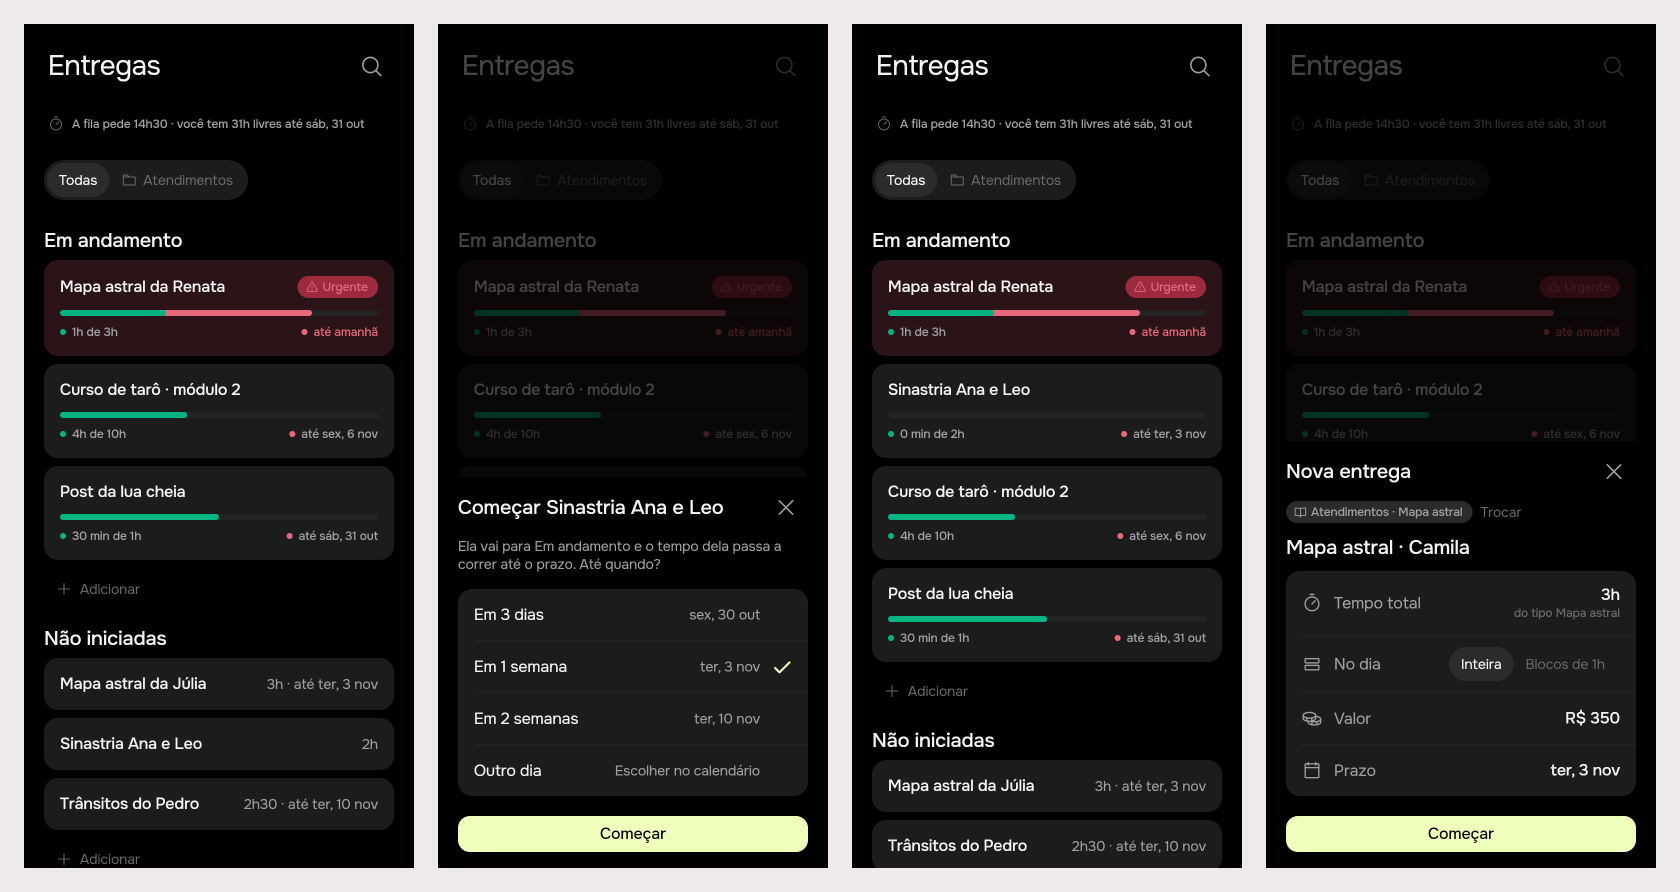
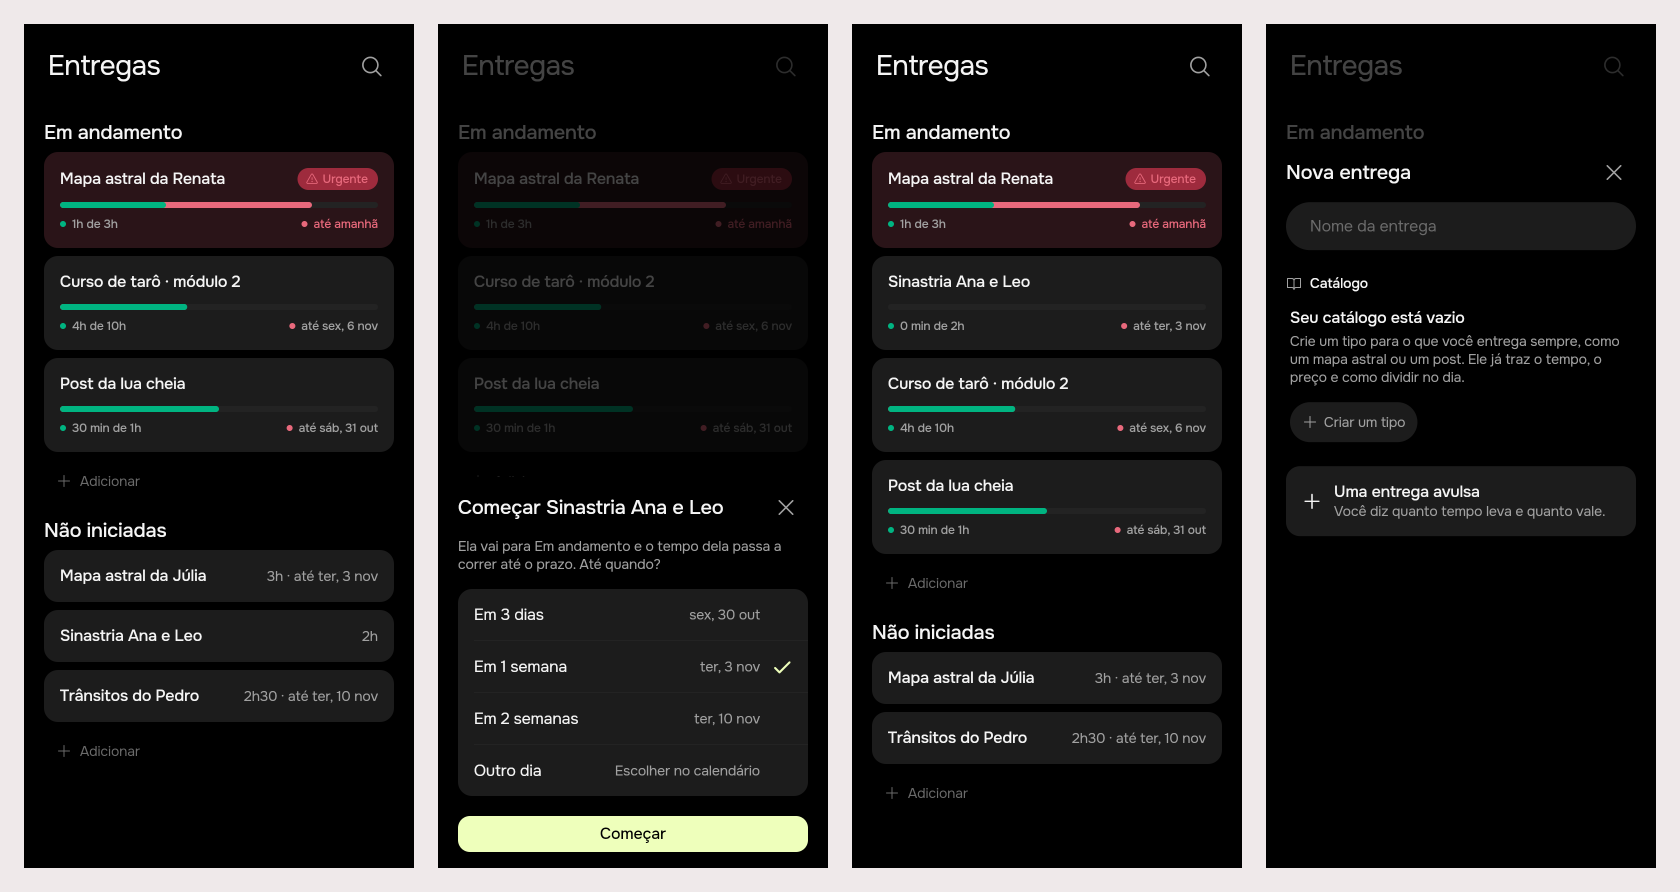
create(#48): fix · Improve deliveries experience

diff --git a/app/packages/artifacts/lib/src/view/artifacts_page.dart b/app/packages/artifacts/lib/src/view/artifacts_page.dart
@@ -22,10 +22,8 @@ import 'package:timeline/timeline.dart';
 /// {@template artifacts_page}
 /// The Entregas tab: the deliveries under way, then the ones not begun.
 ///
-/// The three forces on one screen. The goals say what the month asks for;
-/// the line under them says what the agenda can give, the time the queue
-/// owes this month against the free time left in it; the deliveries are
-/// what both are spent on. Those under way (Em andamento) are fixed, the
+/// The goals say what the month asks for (hidden for now); the deliveries
+/// are what it is spent on. Those under way (Em andamento) are fixed, the
 /// one whose time has run furthest past its work on top; those not begun
 /// (Não iniciadas) are the queue, in order of priority, and held, a row is
 /// dragged to another place in it. One line of the kinds she uses most
@@ -97,7 +95,6 @@ class _ArtifactsPageState extends State<ArtifactsPage> {
     // The first few, what is under way first, as the page draws them.
     final started = groups.started.take(widget.shown).toList();
     final waiting = groups.waiting.take(widget.shown - started.length).toList();
-    final schedule = data.schedule;
     const side = EdgeInsets.symmetric(horizontal: AppSpacing.s5);
 
     return SafeArea(
@@ -171,35 +168,8 @@ class _ArtifactsPageState extends State<ArtifactsPage> {
                             },
                           ),
                         ),
+                      const SizedBox(height: AppSpacing.s3),
                     ],
-                    const SizedBox(height: AppSpacing.s3),
-                    Padding(
-                      padding: const EdgeInsets.symmetric(
-                        horizontal: AppSpacing.s1,
-                      ),
-                      child: Row(
-                        children: [
-                          const AppIcon(
-                            iconData: AppIcons.timer,
-                            size: AppSpacing.s4,
-                            color: AppColors.ink3,
-                          ),
-                          const SizedBox(width: AppSpacing.s2),
-                          Expanded(
-                            child: Text(
-                              l10n.goalSchedule(
-                                formatMinutes(l10n, schedule.needMinutes),
-                                formatMinutes(l10n, schedule.freeMinutes),
-                                dayName(l10n, schedule.until, now),
-                              ),
-                              style: AppTypography.caption,
-                            ),
-                          ),
-                        ],
-                      ),
-                    ),
-                    const SizedBox(height: AppSpacing.s4),
-                    const SizedBox(height: AppSpacing.s3),
                     if (data.catalog.isNotEmpty) ...[
                       ShelfFilter(
                         categories: data.catalog,

diff --git a/app/packages/artifacts/test/artifacts_page_test.dart b/app/packages/artifacts/test/artifacts_page_test.dart
@@ -162,7 +162,7 @@ void main() {
     await tester.pumpAndSettle();
   }
 
-  testAt('draws the goals, the agenda against the queue, and five of it', (
+  testAt('draws the goals and five of the queue', (
     tester,
   ) async {
     await pump(tester, full, home: const ArtifactsPage(showGoals: true));
@@ -171,20 +171,8 @@ void main() {
       find.text(l10n.goalInMonth(l10n.goalRevenue, 'outubro')),
       findsOneWidget,
     );
-    expect(
-      find.text(
-        l10n.goalSchedule(
-          '11h15',
-          '26h',
-          AppWheelPicker.dayLabel(
-            l10n,
-            DateTime(2026, 10, 31),
-            now: now,
-          ).toLowerCase(),
-        ),
-      ),
-      findsOneWidget,
-    );
+    // The agenda against the queue is not drawn any more.
+    expect(find.textContaining('A fila pede'), findsNothing);
     expect(find.byType(ArtifactRow), findsNWidgets(5));
     expect(find.text(l10n.artifactsSeeAll(6)), findsOneWidget);
     expect(find.text('Mapa · Renata'), findsNothing);

diff --git a/app/packages/l10n/lib/src/gen/app_localizations.dart b/app/packages/l10n/lib/src/gen/app_localizations.dart
@@ -2159,12 +2159,6 @@ abstract class AppLocalizations {
   /// **'a fila cobre o resto'**
   String get goalCovered;
 
-  /// No description provided for @goalSchedule.
-  ///
-  /// In pt, this message translates to:
-  /// **'A fila pede {need} · você tem {free} livres até {date}'**
-  String goalSchedule(String need, String free, String date);
-
   /// No description provided for @artifactsAll.
   ///
   /// In pt, this message translates to:

diff --git a/app/packages/l10n/lib/src/gen/app_localizations_pt.dart b/app/packages/l10n/lib/src/gen/app_localizations_pt.dart
@@ -1367,11 +1367,6 @@ class AppLocalizationsPt extends AppLocalizations {
   String get goalCovered => 'a fila cobre o resto';
 
   @override
-  String goalSchedule(String need, String free, String date) {
-    return 'A fila pede $need · você tem $free livres até $date';
-  }
-
-  @override
   String get artifactsAll => 'Todas';
 
   @override

diff --git a/product/delivery/2026-10-27-deliveries/README.md b/product/delivery/2026-10-27-deliveries/README.md
@@ -2,7 +2,9 @@
 
 Issue [#48](https://github.com/pietroid/lunna/issues/48), **mockup track**,
 designed and built unattended by the queue. The design was approved on
-the issue ("Approve"); the build is sections 3 to 5.
+the issue ("Approve"); the build is sections 3 to 5. The review of the
+build asked to remove the schedule line (open question 1) and merge: see
+*After the review* in section 3.
 
 ## 1. The prompt
 
@@ -23,6 +25,10 @@ From [issue #48](https://github.com/pietroid/lunna/issues/48), verbatim:
 Answer on the issue, after the design:
 
 > Approve
+
+Answer on the issue, after the build:
+
+> Remove the line, and then merge it
 
 ## 2. The design
 
@@ -114,7 +120,8 @@ Drawn from known patterns, not browsed (no Mobbin session here):
 The approval answered neither, so the build kept both as proposed:
 
 1. Should the schedule line (*A fila pede … · você tem … livres até …*) go too?
-   Kept for now.
+   Kept for now. **Answered after the build: remove it** (section 3,
+   *After the review*).
 2. Should an overdue delivery that was **never begun** be pulled into Em
    andamento as urgent? Proposed: no, it stays in the queue with its day
    in red.
@@ -131,6 +138,28 @@ first, red and tagged; (2) a delivery with no day dropped into Em
 andamento asks for one; (3) begun, it lands by the rule, its bar empty;
 (4) Em andamento's **+ Adicionar**: the creation sheet with a day already
 set a week out, no "Entra na fila", and **Começar**.
+
+### After the review
+
+"Remove the line" was read as open question 1, the one line the build
+had kept on purpose: the schedule line under the title (*A fila pede
+14h30 · você tem 31h livres até sáb, 31 out*). It is gone, and the
+prints above are re-shot from the final code:
+
+- `ArtifactsPage` no longer draws it; the space it held closed, so Em
+  andamento's heading sits right under the title (with the goals on, they
+  keep their gap above the list).
+- `goalSchedule` left `app_pt.arb` (and the generated l10n).
+- `schedule` stays in the model and in `GET /artifacts`: nothing else
+  reads it in the app, but the server's figure is cheap and the goals
+  (hidden by the flag) may want it back. The server is untouched.
+- `artifacts_page_test`: the goals test now checks that *A fila pede* is
+  not drawn. `AGENTS.md` and `product/spec/artifacts.md` say so.
+- `.tool/check` on the change: every step green (app analyze, every
+  package's tests under Focus and Lunna).
+
+The merge is the person's (or the queue's) to do: this run leaves the
+change in the branch's files for the PR.
 
 ### The contract
 

diff --git a/AGENTS.md b/AGENTS.md
@@ -528,8 +528,8 @@ it was begun to the end of its day in red (`paceTime`) under its minutes
 done in green (`paceDone`), keyed with the time done and the day due.
 The **goals** (money delivered,
 or a count of one kind, per week or month) are hidden by a flag
-(`ArtifactsPage(showGoals:)`, off) and a line sets the time the month's
-deliveries owe against the agenda's free hours. A delivery's tasks are ordinary tasks on the day
+(`ArtifactsPage(showGoals:)`, off), and so is the line that set the
+month's deliveries against the agenda's free hours. A delivery's tasks are ordinary tasks on the day
 (`task.artifact_id`). Its page has three tabs: Notas, **Pendentes**
 (Tempo's Lista kept to them, `TimelineList(only:)`) and **Feitas** (what
 was done, newest first under Hoje / Ontem / the date), under the same

diff --git a/product/spec/artifacts.md b/product/spec/artifacts.md
@@ -130,7 +130,10 @@ of deliveries both are spent on.
   or not begun, no red.
 - **The goals are hidden** (`ArtifactsPage(showGoals: false)`, the
   default): no goal cards and no "Nova meta". The model, the routes and the
-  agent's goal verbs are untouched, and the schedule line stays.
+  agent's goal verbs are untouched.
+- **No schedule line**: the line that set what the queue owes this month
+  against the agenda's free hours (*A fila pede … · você tem … livres
+  até …*) is not drawn. `schedule` is still in `GET /artifacts`.
 
 ## Routes
 
